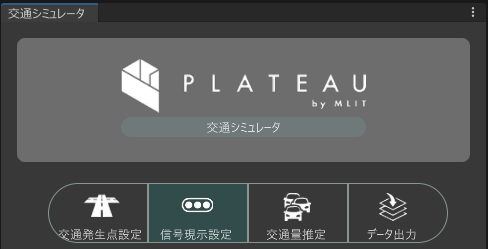
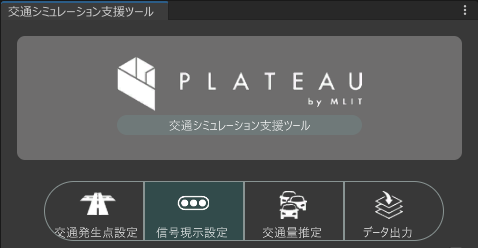
Update documentation to reflect tool name change

diff --git a/Editor/TrafficSimulationToolWindow.cs b/Editor/TrafficSimulationToolWindow.cs
@@ -28,10 +28,10 @@ namespace TrafficSimulationTool.Editor
 
         private ViewController[] controllers;
 
-        [MenuItem("PLATEAU/交通シミュレータ")]
+        [MenuItem("PLATEAU/交通シミュレーション支援ツール")]
         public static void Open()
         {
-            var window = GetWindow<TrafficSimulationToolWindow>("交通シミュレータ");
+            var window = GetWindow<TrafficSimulationToolWindow>("交通シミュレーション支援ツール");
 
             window.Show();
         }

diff --git a/README.md b/README.md
@@ -61,8 +61,31 @@
 | OS             | Windows 11 Home 64 ビット |
 
 
-## 7. 本リポジトリのフォルダ構成
-本システムは、Unityのプラグインとして構成されています。
+## 7. 本リポジトリのフォルダ構成 <!-- 本GitHub上のソースファイルの構成を記載ください。 -->
+
+本システムは、Unity のプラグインとして構成されています。
+
+本リポジトリのフォルダ構成は以下の通りです。
+
+| フォルダ名 | 詳細 |
+|-|-|
+| .github | CI/CD 用の設定ファイルなどを格納 |
+| Documentation~ | マニュアルを格納 |
+| Editor | エディター拡張に使用するアセットを格納 |
+| Modules | 機能モジュールを格納 |
+| Plugins | 外部プラグインを格納 |
+| Resources | 実行時に動的にロードするアセットを格納 |
+| Runtime | 実行時に使用するアセットを格納 |
+
+また、以下のファイルがリポジトリ直下に配置されています。
+
+| ファイル名 | 詳細 |
+|-|-|
+| .gitignore | Git で管理しないファイルの設定 |
+| LICENSE | ライセンス情報 |
+| package.json | Unity パッケージの定義ファイル |
+| README.md | 本リポジトリの説明文書 |
+| ***.meta | Unity メタファイル |
 
 ## 8. ライセンス <!-- 変更せず、そのまま使うこと。 -->
 

diff --git a/Documentation~/index.md b/Documentation~/index.md
@@ -1,8 +1,8 @@
-# PLATEAU交通シミュレータ
+# 交通シミュレーション支援ツール
 
 ![可視化画面](./resources/BasicOperation/Play.png)
 
-PLATEAU交通シミュレータは、3D都市モデルおよび交通関連の各種オープンデータを活用し、
+交通シミュレーション支援ツールは、3D都市モデルおよび交通関連の各種オープンデータを活用し、
 大規模商業施設の開発などによって生じる周辺道路への交通影響を、簡易かつ効率的に設定・予測・可視化するためのソフトウェアです。
 
 具体的には、3D都市モデルを用いた道路ネットワーク生成機能、交通発生点の設定機能、OD交通量（Origin-Destination）の推定機能、開発交通量の推定機能などを備え、これらを統合してシミュレーションデータを生成するUIと、シミュレーション結果を3Dで可視化する表示機能を組み合わせて提供します。

diff --git a/Documentation~/manual/Setup.md b/Documentation~/manual/Setup.md
@@ -34,7 +34,7 @@ Unity Hub を起動します。
 - Unityが起動したら、以下の各ツールのリリースページからtgzファイルをダウンロードします。
   - [PLATEAU SDK for Unityのリリースページ](https://github.com/Project-PLATEAU/PLATEAU-SDK-for-Unity/releases)
   - [PLATEAU-SDK-Toolkits-for-Unityのリリースページ](https://github.com/Project-PLATEAU/PLATEAU-SDK-Toolkits-for-Unity/releases)
-  - [交通シミュレータのリリースページ](https://github.com/Project-PLATEAU/Data-Preparation-Tool-for-TrafficSim/releases)
+  - [交通シミュレーション支援ツールのリリースページ](https://github.com/Project-PLATEAU/Data-Preparation-Tool-for-TrafficSim/releases)
 
 > [!NOTE]  
 > git指定で導入する方法は以下を参考にしてください。<br>

diff --git a/Documentation~/manual/ZoneSetting.md b/Documentation~/manual/ZoneSetting.md
@@ -10,7 +10,7 @@
 
 PLATEAU SDK for Unity により都市モデルをインポートし、道路ネットワークの生成・整備を行っておく必要があります。
 
-Unityのメニューバーから`PLATEAU`-`交通シミュレータ`を選択し`交通シミュレータ`ウィンドウを開き`交通集中発生点設定`タブを選択します。
+Unityのメニューバーから`PLATEAU`-`交通シミュレーション支援ツール`を選択し`交通シミュレーション支援ツール`ウィンドウを開き`交通集中発生点設定`タブを選択します。
 
 ## 利用手順
 
